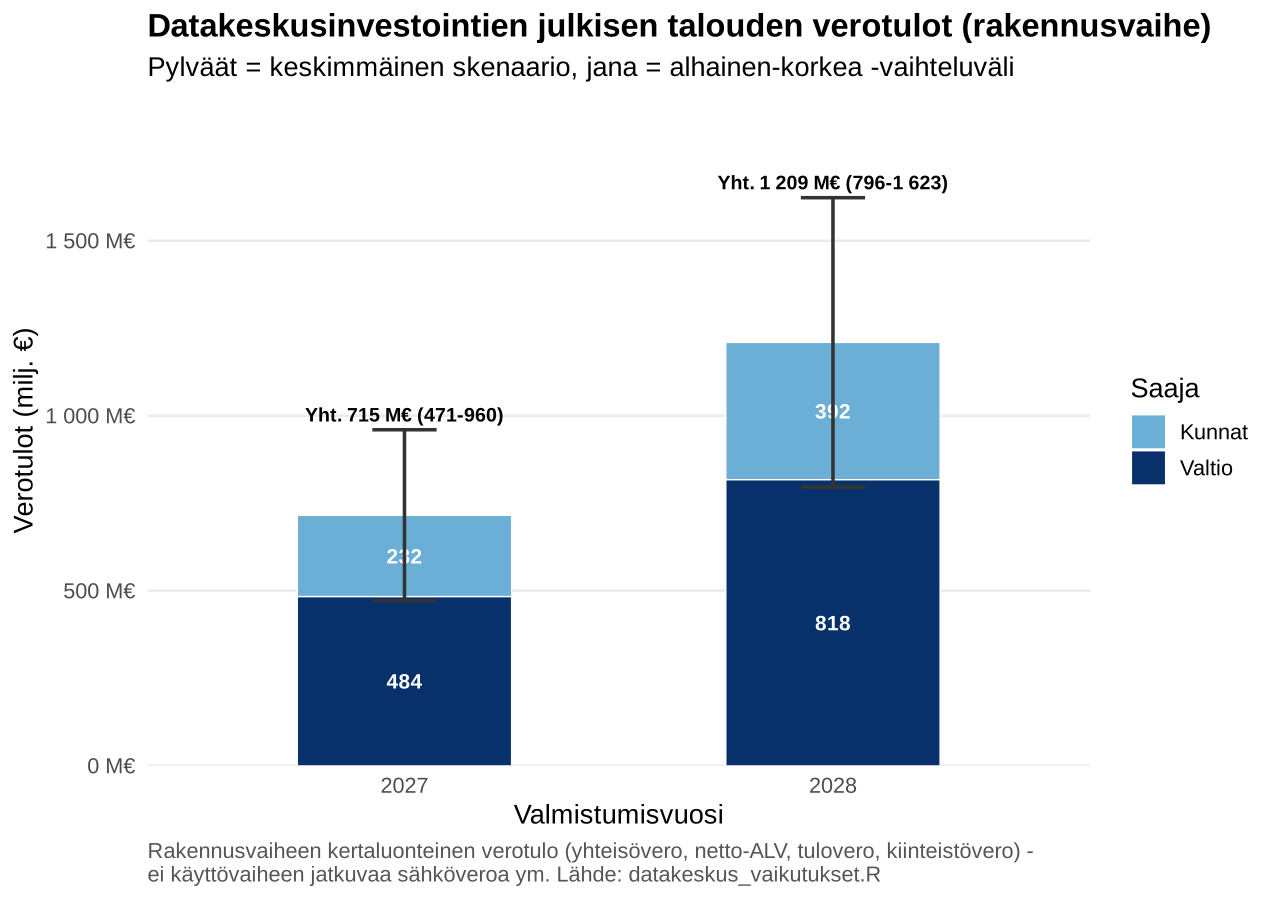
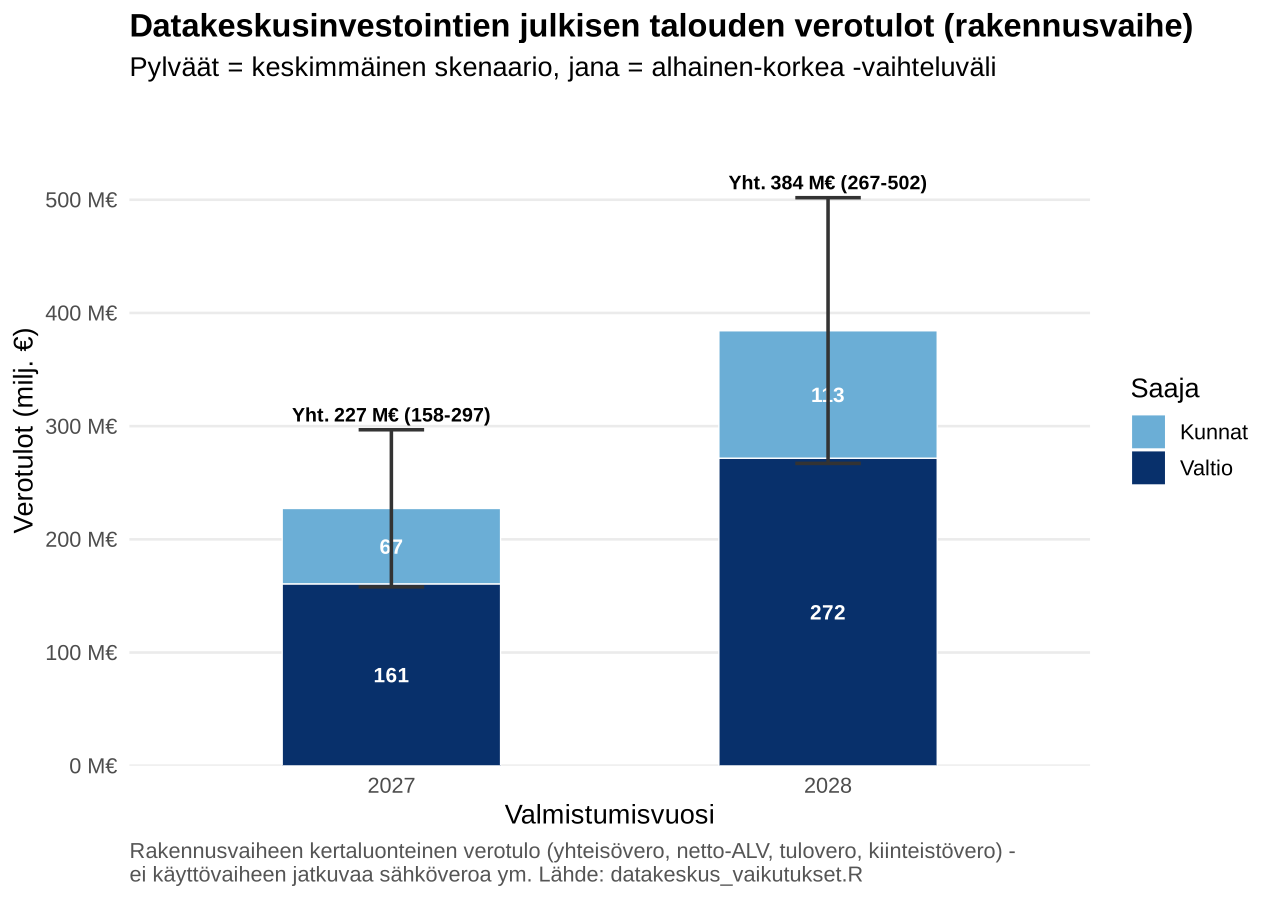
Fix rakennusvaihe tulovero: was still computed from Ramboll's old 45 000 htv
rak_tulovero_12 (and rak_tulovero_valtio) had never been recalculated
after rak_htv_per_mrd switched from Ramboll's 3 750 htv/mrd. e to
Google's 1 231 htv/mrd. e -- it was still implicitly based on the old
45 000 htv/12 mrd. e total ("Tulovero" subsection explicitly said so).
Recomputed using the documented methodology (2026 valtion
tuloveroasteikko, 91,8% veronalainen osuus, 7,57% kunnallisvero) but
on the correct direct-employee base (n. 6 714.5 suoraa per 12 mrd. e,
from 1 231 htv/mrd. e x 1/2.2 Deloitte-suhteella), times
suomalaisten_osuus per scenario:

  rak_tulovero_12:       210/315/420 -> 34.5/41.4/48.4 M e per 12 mrd. e
  rak_tulovero_valtio:   2/3 (flat)  -> 0.7015 (precisely re-derived)

Propagated through:
- R model: updated parameters and comments.
- Main memo: rewrote the "Tulovero" subsection's rakennusvaihe table
  (now alhainen/keskim/korkea, matching the rest of the chapter,
  instead of the old 50%/100%-Suomessa two-point framing), refreshed
  "Julkisen talouden tulot yhteensä", "Vertailu Rambollin
  laskelmiin", the risk-weighted employment/tax table, the
  per-invested-billion haarukka table, and regenerated the affected
  chart (datakeskus_verotulot_2027_2028.png). Verified via LibreOffice
  PDF render that the new and edited tables still display correctly.
- Teema draft: updated the Verotulot yhteensä / Tulovero rows and
  expanded footnote explaining the correction.

Net effect: rakennusvaihe tax revenue drops to roughly a third of the
[…]

diff --git a/Datakeskusteema luonnos.md b/Datakeskusteema luonnos.md
@@ -44,14 +44,14 @@ Rakennusvaiheen vaikutus on kertaluonteinen ja kasautuu hankkeiden valmistumisvu
 | --- | --- | --- |
 | Arvonlisäys (BKT-vaikutus) | noin 6,1 mrd. € (3,3–7,8) | noin 2,0 mrd. €/v (1,2–2,8) |
 | Työllisyys | noin 40 600 htv (38 200–44 300), josta suoria n. 18 400 | noin 6 000 htv/v (2 800–9 900), josta suoria n. 2 750 |
-| Verotulot yhteensä¹ | noin 1,1 mrd. € (0,7–1,7) | noin 0,7 mrd. €/v (0,56–0,91) |
+| Verotulot yhteensä¹ | noin 380 milj. € (252–538) | noin 0,7 mrd. €/v (0,56–0,91) |
 | &nbsp;&nbsp;– Yhteisövero | noin 116 milj. € (65–180) | noin 25 milj. €/v (14–39) |
 | &nbsp;&nbsp;– Arvonlisävero (netto) | noin 91 milj. € (52–135) | noin 19 milj. €/v (8–33) |
-| &nbsp;&nbsp;– Tulovero¹ | noin 866 milj. € (543–1 260) | noin 55 milj. €/v (21–110) |
+| &nbsp;&nbsp;– Tulovero¹ | noin 114 milj. € (89–145) | noin 55 milj. €/v (21–110) |
 | &nbsp;&nbsp;– Kiinteistövero | noin 60 milj. € (47–78) | noin 60 milj. €/v (47–78) |
 | &nbsp;&nbsp;– Sähkövero | – | noin 564 milj. €/v (467–651) |
 
-¹ Tulovero sisältää vain suorien työntekijöiden palkoista kertyvän tuloveron (rakennusvaiheessa noin 18 400 htv, käyttövaiheessa noin 2 750 htv/v), ei epäsuorien tai indusoitujen työntekijöiden tuloveroa. Verotulot yhteensä -luku on siis tältä osin aliarvio.
+¹ Tulovero sisältää vain suorien työntekijöiden palkoista kertyvän tuloveron, ei epäsuorien tai indusoitujen työntekijöiden tuloveroa. Verotulot yhteensä -luku on siis tältä osin aliarvio. Rakennusvaiheen tulovero on laskettu oikealla suoralla työllisyyspohjalla (n. 6 715 suoraa työntekijää per 12 mrd. €, 1 230 htv/mrd. €:n kokonaismäärästä Googlen Deloitte-selvityksen suhteella johdettuna, kerrottuna Suomessa verotettujen osuudella 50/60/70 % skenaariosta riippuen) vuoden 2026 tuloveroasteikolla. Aiempi luku perustui vahingossa Rambollin alkuperäiseen, jo hylättyyn 45 000 htv:n kokonaistyöllisyysoletukseen, jota ei ollut päivitetty Googlen lukuun siirryttäessä.
 
 ## 4. Vaikutus muuhun rakentamiseen: sähköverkot
 
